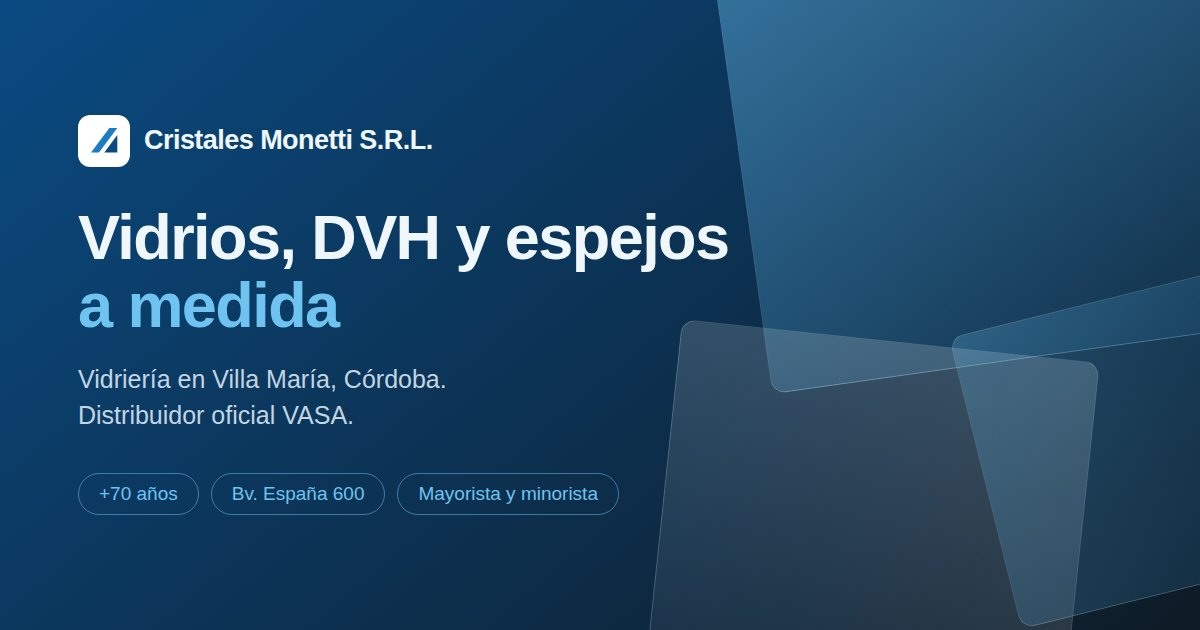
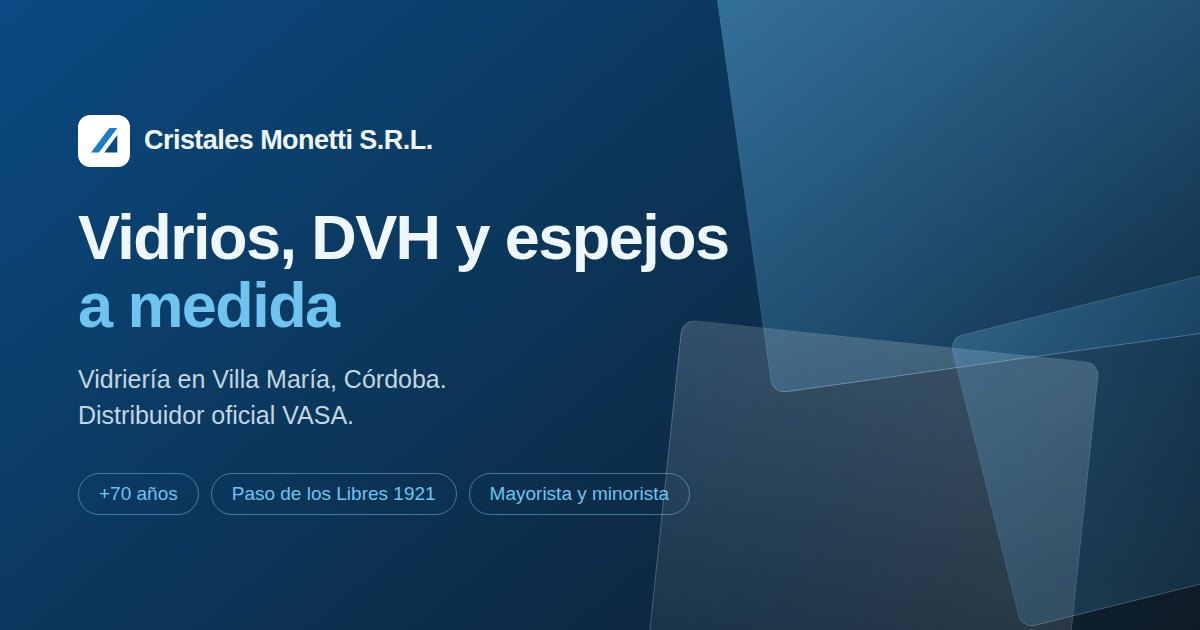
Corregir dirección, mover el carrusel al hero y simplificar su título
- Dirección: "Bv. España 600" -> "Paso de los Libres 1921" en todo el
  sitio (meta description, og:image:alt, hero, tarjeta de trayectoria,
  ficha de contacto, footer, FAQ, JSON-LD). Los dos links "Cómo llegar
  en Google Maps" ahora usan el enlace directo que pasó el cliente
  (maps.app.goo.gl) en vez de una búsqueda de texto construida. Imagen
  OG re-renderizada: tenía la dirección vieja impresa en los píxeles.

- El carrusel de materiales se movió de su sección propia (entre
  Servicios y Trayectoria) al hero, entre el párrafo de bajada y los
  botones de acción, como pidió el cliente. Se le sacó el eyebrow
  ("Para quien no sabe de vidrios") y el subtítulo, dejando solo el
  título "Los materiales, explicados simple". El link "Materiales" del
  nav se sacó por quedar redundante: el bloque ya es visible sin
  scrollear.

- Verificado: jerarquía de encabezados sin saltos (h1->h2->h3), sin
  duplicar ids, el carrusel sigue funcionando por teclado/click/anclas,
  0 fallas de contraste AA, sin overflow horizontal, funciona sin JS,
  ambos bloques JSON-LD parsean.

- El ícono de teléfono del header en mobile se revisó a fondo: href,
  hit-test y pointer-events están correctos (confirmado con Playwright).
  No hay bug de código — es consistente con que tel: no navega dentro
  de un iframe sandboxeado como el de la vista previa de Artifact.

Claude-Session: https://claude.ai/code/session_01U9TNHEzT5VZcCpw4d8HbEx

Changed region(s): [[0.185, 0.754, 0.555, 0.8143]]

diff --git a/index.html b/index.html
@@ -5,7 +5,7 @@
 <meta name="viewport" content="width=device-width, initial-scale=1">
 
 <title>Cristales Monetti — Vidrios, DVH y espejos a medida en Villa María, Córdoba</title>
-<meta name="description" content="Vidriería en Villa María, Córdoba con más de 70 años de trayectoria. Vidrios, DVH, espejos a medida, templados, laminados y carpintería de aluminio. Distribuidor oficial VASA. Venta mayorista y minorista. Bv. España 600.">
+<meta name="description" content="Vidriería en Villa María, Córdoba con más de 70 años de trayectoria. Vidrios, DVH, espejos a medida, templados, laminados y carpintería de aluminio. Distribuidor oficial VASA. Venta mayorista y minorista. Paso de los Libres 1921.">
 <meta name="theme-color" content="#0A4A82">
 <meta name="author" content="Cristales Monetti S.R.L.">
 <meta name="robots" content="index, follow">
@@ -22,7 +22,7 @@
 <meta property="og:image" content="https://cristalesmonetti.com.ar/assets/og-cristales-monetti.jpg">
 <meta property="og:image:width" content="1200">
 <meta property="og:image:height" content="630">
-<meta property="og:image:alt" content="Cristales Monetti S.R.L. — vidriería en Bv. España 600, Villa María, Córdoba.">
+<meta property="og:image:alt" content="Cristales Monetti S.R.L. — vidriería en Paso de los Libres 1921, Villa María, Córdoba.">
 
 <meta name="twitter:card" content="summary_large_image">
 <meta name="twitter:title" content="Cristales Monetti — Vidrios, DVH y espejos a medida en Villa María">
@@ -153,6 +153,8 @@ a:focus-visible,button:focus-visible,summary:focus-visible,[tabindex]:focus-visi
 .hero__texto{max-width:600px}
 .hero h1 .resalte{color:var(--azul)}
 .hero__bajada{font-size:clamp(1.02rem,1.6vw,1.18rem);color:var(--gris);max-width:50ch}
+.hero__materiales{margin:24px 0 4px;scroll-margin-top:76px}
+.hero__materiales h2{font-size:1.15rem;margin-bottom:.6em}
 .hero__acciones{display:flex;flex-wrap:wrap;gap:12px;margin:28px 0 22px}
 .hero__datos{display:flex;flex-wrap:wrap;gap:10px 22px;font-size:.93rem;color:var(--gris)}
 .hero__datos li{display:flex;align-items:center;gap:8px}
@@ -344,7 +346,6 @@ a.senal:hover{transform:translateY(-4px);box-shadow:var(--sombra);border-color:v
 
     <nav class="nav" aria-label="Navegación principal">
       <a href="#servicios">Servicios</a>
-      <a href="#materiales">Materiales</a>
       <a href="#trayectoria">Trayectoria</a>
       <a href="#preguntas">Preguntas</a>
       <a href="#contacto">Contacto</a>
@@ -371,6 +372,100 @@ a.senal:hover{transform:translateY(-4px);box-shadow:var(--sombra);border-color:v
           con asesoramiento antes de comprar.
         </p>
 
+        <section class="hero__materiales" id="materiales" aria-labelledby="titulo-materiales">
+          <h2 id="titulo-materiales">Los materiales, explicados simple</h2>
+
+          <div class="carrusel">
+            <div class="carrusel__viewport" tabindex="0" aria-label="Materiales y productos, lista desplazable con el teclado">
+              <ul class="carrusel__pista" role="list">
+
+                <li class="carrusel__item" id="mat-1">
+                  <svg class="carrusel__ilustracion" viewBox="0 0 220 160" aria-hidden="true" focusable="false">
+                    <rect x="54" y="30" width="120" height="90" rx="3" fill="var(--hielo)" stroke="var(--azul)" stroke-width="2.2"/>
+                    <path d="M60 40 L150 118" stroke="var(--celeste)" stroke-width="6" stroke-linecap="round" opacity=".45"/>
+                    <line x1="54" y1="18" x2="174" y2="18" stroke="var(--azul-medio)" stroke-width="1.6"/>
+                    <line x1="54" y1="12" x2="54" y2="24" stroke="var(--azul-medio)" stroke-width="1.6"/>
+                    <line x1="174" y1="12" x2="174" y2="24" stroke="var(--azul-medio)" stroke-width="1.6"/>
+                    <line x1="40" y1="30" x2="40" y2="120" stroke="var(--azul-medio)" stroke-width="1.6"/>
+                    <line x1="34" y1="30" x2="46" y2="30" stroke="var(--azul-medio)" stroke-width="1.6"/>
+                    <line x1="34" y1="120" x2="46" y2="120" stroke="var(--azul-medio)" stroke-width="1.6"/>
+                  </svg>
+                  <h3>Vidrio a medida</h3>
+                  <p>Cortamos el vidrio al milímetro que necesites: para una ventana, una mesa o una repisa.</p>
+                </li>
+
+                <li class="carrusel__item" id="mat-2">
+                  <svg class="carrusel__ilustracion" viewBox="0 0 220 160" aria-hidden="true" focusable="false">
+                    <rect x="58" y="26" width="14" height="108" fill="var(--hielo)" stroke="var(--azul)" stroke-width="2.2"/>
+                    <rect x="148" y="26" width="14" height="108" fill="var(--hielo)" stroke="var(--azul)" stroke-width="2.2"/>
+                    <rect x="72" y="24" width="76" height="9" fill="var(--azul-medio)"/>
+                    <rect x="72" y="127" width="76" height="9" fill="var(--azul-medio)"/>
+                    <line x1="88" y1="80" x2="132" y2="80" stroke="var(--azul-texto)" stroke-width="1.4" stroke-dasharray="3 4"/>
+                    <path d="M35 80 h18" stroke="#C0522D" stroke-width="3" stroke-linecap="round"/>
+                    <path d="M53 80 l-6 -4 M53 80 l-6 4" stroke="#C0522D" stroke-width="3" stroke-linecap="round"/>
+                    <path d="M185 80 h-18" stroke="var(--celeste)" stroke-width="3" stroke-linecap="round"/>
+                    <path d="M167 80 l6 -4 M167 80 l6 4" stroke="var(--celeste)" stroke-width="3" stroke-linecap="round"/>
+                  </svg>
+                  <h3>DVH — doble vidriado hermético</h3>
+                  <p>Dos vidrios con una cámara de aire sellada en el medio. Aísla más el frío, el calor y el ruido que un vidrio simple.</p>
+                </li>
+
+                <li class="carrusel__item" id="mat-3">
+                  <svg class="carrusel__ilustracion" viewBox="0 0 220 160" aria-hidden="true" focusable="false">
+                    <path d="M55 20 H145 L165 40 V140 H55 Z" fill="var(--celeste)" fill-opacity=".28" stroke="var(--azul)" stroke-width="2.2" stroke-linejoin="round"/>
+                    <path d="M70 30 L100 120" stroke="#fff" stroke-width="7" stroke-linecap="round" opacity=".55"/>
+                    <path d="M95 30 L120 110" stroke="#fff" stroke-width="4" stroke-linecap="round" opacity=".4"/>
+                    <circle cx="140" cy="115" r="4.5" fill="none" stroke="var(--azul)" stroke-width="1.6"/>
+                  </svg>
+                  <h3>Espejos</h3>
+                  <p>Vidrio con respaldo reflectante, a medida y con el biselado o las perforaciones que necesite el diseño.</p>
+                </li>
+
+                <li class="carrusel__item" id="mat-4">
+                  <svg class="carrusel__ilustracion" viewBox="0 0 220 160" aria-hidden="true" focusable="false">
+                    <rect x="18" y="24" width="82" height="104" rx="3" fill="var(--hielo)" stroke="var(--azul)" stroke-width="2.2"/>
+                    <g stroke="var(--azul-medio)" stroke-width="1.3" stroke-linecap="round">
+                      <path d="M40 60 L55 68 L48 84 L62 90"/>
+                      <path d="M55 68 L68 78"/>
+                      <path d="M40 60 L34 76 L48 84"/>
+                      <path d="M62 90 L58 108 L74 100 L80 116"/>
+                      <path d="M68 78 L80 90 L74 100"/>
+                    </g>
+                    <line x1="110" y1="20" x2="110" y2="132" stroke="var(--borde)" stroke-width="2"/>
+                    <rect x="120" y="24" width="82" height="104" rx="3" fill="var(--hielo)" stroke="var(--azul)" stroke-width="2.2"/>
+                    <rect x="120" y="68" width="82" height="16" fill="var(--celeste)" fill-opacity=".55"/>
+                    <path d="M132 24 L190 128" stroke="var(--azul-texto)" stroke-width="1.6"/>
+                  </svg>
+                  <h3>Templados y laminados</h3>
+                  <p>El templado, si se rompe, se hace pedacitos chicos y sin filo. El laminado no se separa: queda unido a una lámina interior. Los dos son vidrios de seguridad.</p>
+                </li>
+
+                <li class="carrusel__item" id="mat-5">
+                  <svg class="carrusel__ilustracion" viewBox="0 0 220 160" aria-hidden="true" focusable="false">
+                    <path d="M40 30 H70 V44 H58 V130 H40 Z" fill="var(--azul-medio)"/>
+                    <path d="M180 30 H150 V44 H162 V130 H180 Z" fill="var(--azul-medio)"/>
+                    <rect x="70" y="44" width="4" height="86" fill="var(--tinta)" opacity=".35"/>
+                    <rect x="146" y="44" width="4" height="86" fill="var(--tinta)" opacity=".35"/>
+                    <rect x="78" y="46" width="64" height="82" fill="var(--hielo)" stroke="var(--azul)" stroke-width="2"/>
+                    <circle cx="110" cy="100" r="3.4" fill="var(--azul-texto)"/>
+                  </svg>
+                  <h3>Carpintería de aluminio</h3>
+                  <p>El perfil que sostiene el vidrio en la ventana o la puerta. Lo armamos a medida en el taller.</p>
+                </li>
+
+              </ul>
+            </div>
+
+            <div class="carrusel__puntos">
+              <a href="#mat-1" aria-label="Vidrio a medida, diapositiva 1 de 5"></a>
+              <a href="#mat-2" aria-label="DVH, diapositiva 2 de 5"></a>
+              <a href="#mat-3" aria-label="Espejos, diapositiva 3 de 5"></a>
+              <a href="#mat-4" aria-label="Templados y laminados, diapositiva 4 de 5"></a>
+              <a href="#mat-5" aria-label="Carpintería de aluminio, diapositiva 5 de 5"></a>
+            </div>
+          </div>
+        </section>
+
         <div class="hero__acciones">
           <a class="btn btn--primario" href="#contacto">Pedir presupuesto</a>
           <a class="btn btn--secundario" href="#servicios">Ver lo que hacemos</a>
@@ -379,7 +474,7 @@ a.senal:hover{transform:translateY(-4px);box-shadow:var(--sombra);border-color:v
         <ul class="hero__datos">
           <li>
             <svg width="17" height="17" viewBox="0 0 24 24" fill="none" stroke="currentColor" stroke-width="2" stroke-linecap="round" stroke-linejoin="round" aria-hidden="true" focusable="false"><path d="M20 10c0 6-8 12-8 12s-8-6-8-12a8 8 0 0 1 16 0Z"/><circle cx="12" cy="10" r="3"/></svg>
-            Bv. España 600
+            Paso de los Libres 1921
           </li>
           <li>
             <svg width="17" height="17" viewBox="0 0 24 24" fill="none" stroke="currentColor" stroke-width="2" stroke-linecap="round" stroke-linejoin="round" aria-hidden="true" focusable="false"><path d="m9 11 3 3L22 4"/><path d="M21 12a9 9 0 1 1-6.2-8.6"/></svg>
@@ -396,7 +491,7 @@ a.senal:hover{transform:translateY(-4px);box-shadow:var(--sombra);border-color:v
         Cuando esté disponible la foto real de la fachada, reemplazar el bloque
         decorativo de abajo por:
         <img src="assets/fachada-cristales-monetti.jpg" width="1000" height="850"
-             alt="Frente del local de Cristales Monetti en Bv. España 600, Villa María: vidrio espejado azul y cartel blanco con el logo azul."
+             alt="Frente del local de Cristales Monetti en Paso de los Libres 1921, Villa María: vidrio espejado azul y cartel blanco con el logo azul."
              loading="eager" decoding="async">
       -->
       <div class="vidrios" aria-hidden="true">
@@ -475,107 +570,6 @@ a.senal:hover{transform:translateY(-4px);box-shadow:var(--sombra);border-color:v
     </div>
   </section>
 
-  <!-- ================= MATERIALES ================= -->
-  <section class="seccion" id="materiales" aria-labelledby="titulo-materiales">
-    <div class="contenedor">
-      <div class="seccion__intro aparece">
-        <p class="eyebrow">Para quien no sabe de vidrios</p>
-        <h2 id="titulo-materiales">Los materiales, explicados simple</h2>
-        <p>Si no tenés claro qué es un DVH o la diferencia entre templado y laminado, arrancá por acá.</p>
-      </div>
-
-      <div class="carrusel aparece">
-        <div class="carrusel__viewport" tabindex="0" aria-label="Materiales y productos, lista desplazable con el teclado">
-          <ul class="carrusel__pista" role="list">
-
-            <li class="carrusel__item" id="mat-1">
-              <svg class="carrusel__ilustracion" viewBox="0 0 220 160" aria-hidden="true" focusable="false">
-                <rect x="54" y="30" width="120" height="90" rx="3" fill="var(--hielo)" stroke="var(--azul)" stroke-width="2.2"/>
-                <path d="M60 40 L150 118" stroke="var(--celeste)" stroke-width="6" stroke-linecap="round" opacity=".45"/>
-                <line x1="54" y1="18" x2="174" y2="18" stroke="var(--azul-medio)" stroke-width="1.6"/>
-                <line x1="54" y1="12" x2="54" y2="24" stroke="var(--azul-medio)" stroke-width="1.6"/>
-                <line x1="174" y1="12" x2="174" y2="24" stroke="var(--azul-medio)" stroke-width="1.6"/>
-                <line x1="40" y1="30" x2="40" y2="120" stroke="var(--azul-medio)" stroke-width="1.6"/>
-                <line x1="34" y1="30" x2="46" y2="30" stroke="var(--azul-medio)" stroke-width="1.6"/>
-                <line x1="34" y1="120" x2="46" y2="120" stroke="var(--azul-medio)" stroke-width="1.6"/>
-              </svg>
-              <h3>Vidrio a medida</h3>
-              <p>Cortamos el vidrio al milímetro que necesites: para una ventana, una mesa o una repisa.</p>
-            </li>
-
-            <li class="carrusel__item" id="mat-2">
-              <svg class="carrusel__ilustracion" viewBox="0 0 220 160" aria-hidden="true" focusable="false">
-                <rect x="58" y="26" width="14" height="108" fill="var(--hielo)" stroke="var(--azul)" stroke-width="2.2"/>
-                <rect x="148" y="26" width="14" height="108" fill="var(--hielo)" stroke="var(--azul)" stroke-width="2.2"/>
-                <rect x="72" y="24" width="76" height="9" fill="var(--azul-medio)"/>
-                <rect x="72" y="127" width="76" height="9" fill="var(--azul-medio)"/>
-                <line x1="88" y1="80" x2="132" y2="80" stroke="var(--azul-texto)" stroke-width="1.4" stroke-dasharray="3 4"/>
-                <path d="M35 80 h18" stroke="#C0522D" stroke-width="3" stroke-linecap="round"/>
-                <path d="M53 80 l-6 -4 M53 80 l-6 4" stroke="#C0522D" stroke-width="3" stroke-linecap="round"/>
-                <path d="M185 80 h-18" stroke="var(--celeste)" stroke-width="3" stroke-linecap="round"/>
-                <path d="M167 80 l6 -4 M167 80 l6 4" stroke="var(--celeste)" stroke-width="3" stroke-linecap="round"/>
-              </svg>
-              <h3>DVH — doble vidriado hermético</h3>
-              <p>Dos vidrios con una cámara de aire sellada en el medio. Aísla más el frío, el calor y el ruido que un vidrio simple.</p>
-            </li>
-
-            <li class="carrusel__item" id="mat-3">
-              <svg class="carrusel__ilustracion" viewBox="0 0 220 160" aria-hidden="true" focusable="false">
-                <path d="M55 20 H145 L165 40 V140 H55 Z" fill="var(--celeste)" fill-opacity=".28" stroke="var(--azul)" stroke-width="2.2" stroke-linejoin="round"/>
-                <path d="M70 30 L100 120" stroke="#fff" stroke-width="7" stroke-linecap="round" opacity=".55"/>
-                <path d="M95 30 L120 110" stroke="#fff" stroke-width="4" stroke-linecap="round" opacity=".4"/>
-                <circle cx="140" cy="115" r="4.5" fill="none" stroke="var(--azul)" stroke-width="1.6"/>
-              </svg>
-              <h3>Espejos</h3>
-              <p>Vidrio con respaldo reflectante, a medida y con el biselado o las perforaciones que necesite el diseño.</p>
-            </li>
-
-            <li class="carrusel__item" id="mat-4">
-              <svg class="carrusel__ilustracion" viewBox="0 0 220 160" aria-hidden="true" focusable="false">
-                <rect x="18" y="24" width="82" height="104" rx="3" fill="var(--hielo)" stroke="var(--azul)" stroke-width="2.2"/>
-                <g stroke="var(--azul-medio)" stroke-width="1.3" stroke-linecap="round">
-                  <path d="M40 60 L55 68 L48 84 L62 90"/>
-                  <path d="M55 68 L68 78"/>
-                  <path d="M40 60 L34 76 L48 84"/>
-                  <path d="M62 90 L58 108 L74 100 L80 116"/>
-                  <path d="M68 78 L80 90 L74 100"/>
-                </g>
-                <line x1="110" y1="20" x2="110" y2="132" stroke="var(--borde)" stroke-width="2"/>
-                <rect x="120" y="24" width="82" height="104" rx="3" fill="var(--hielo)" stroke="var(--azul)" stroke-width="2.2"/>
-                <rect x="120" y="68" width="82" height="16" fill="var(--celeste)" fill-opacity=".55"/>
-                <path d="M132 24 L190 128" stroke="var(--azul-texto)" stroke-width="1.6"/>
-              </svg>
-              <h3>Templados y laminados</h3>
-              <p>El templado, si se rompe, se hace pedacitos chicos y sin filo. El laminado no se separa: queda unido a una lámina interior. Los dos son vidrios de seguridad.</p>
-            </li>
-
-            <li class="carrusel__item" id="mat-5">
-              <svg class="carrusel__ilustracion" viewBox="0 0 220 160" aria-hidden="true" focusable="false">
-                <path d="M40 30 H70 V44 H58 V130 H40 Z" fill="var(--azul-medio)"/>
-                <path d="M180 30 H150 V44 H162 V130 H180 Z" fill="var(--azul-medio)"/>
-                <rect x="70" y="44" width="4" height="86" fill="var(--tinta)" opacity=".35"/>
-                <rect x="146" y="44" width="4" height="86" fill="var(--tinta)" opacity=".35"/>
-                <rect x="78" y="46" width="64" height="82" fill="var(--hielo)" stroke="var(--azul)" stroke-width="2"/>
-                <circle cx="110" cy="100" r="3.4" fill="var(--azul-texto)"/>
-              </svg>
-              <h3>Carpintería de aluminio</h3>
-              <p>El perfil que sostiene el vidrio en la ventana o la puerta. Lo armamos a medida en el taller.</p>
-            </li>
-
-          </ul>
-        </div>
-
-        <div class="carrusel__puntos">
-          <a href="#mat-1" aria-label="Vidrio a medida, diapositiva 1 de 5"></a>
-          <a href="#mat-2" aria-label="DVH, diapositiva 2 de 5"></a>
-          <a href="#mat-3" aria-label="Espejos, diapositiva 3 de 5"></a>
-          <a href="#mat-4" aria-label="Templados y laminados, diapositiva 4 de 5"></a>
-          <a href="#mat-5" aria-label="Carpintería de aluminio, diapositiva 5 de 5"></a>
-        </div>
-      </div>
-    </div>
-  </section>
-
   <!-- ================= CONFIANZA ================= -->
   <section class="seccion" id="trayectoria" aria-labelledby="titulo-trayectoria">
     <div class="contenedor">
@@ -600,12 +594,12 @@ a.senal:hover{transform:translateY(-4px);box-shadow:var(--sombra);border-color:v
         </li>
 
         <li>
-          <a class="senal aparece" href="https://www.google.com/maps/search/?api=1&query=Cristales+Monetti+Bv.+Espa%C3%B1a+600+Villa+Mar%C3%ADa+C%C3%B3rdoba" target="_blank" rel="noopener">
+          <a class="senal aparece" href="https://maps.app.goo.gl/DirErrJn8D2XXBCw8" target="_blank" rel="noopener">
             <span class="senal__dato" aria-hidden="true">
               <svg width="30" height="30" viewBox="0 0 24 24" fill="none" stroke="currentColor" stroke-width="2" stroke-linecap="round" stroke-linejoin="round"><path d="M20 10c0 6-8 12-8 12s-8-6-8-12a8 8 0 0 1 16 0Z"/><circle cx="12" cy="10" r="3"/></svg>
             </span>
             <h3>Local a la calle</h3>
-            <p>Bv. España 600, Villa María, Córdoba. Vení, mirá el material y consultá en persona.</p>
+            <p>Paso de los Libres 1921, Villa María, Córdoba. Vení, mirá el material y consultá en persona.</p>
             <span class="senal__link">Cómo llegar en Google Maps →</span>
           </a>
         </li>
@@ -666,7 +660,7 @@ a.senal:hover{transform:translateY(-4px);box-shadow:var(--sombra);border-color:v
 
         <details class="faq__item">
           <summary>¿Cómo pido un presupuesto?</summary>
-          <div><p>Llamanos al (0353) 453-3054, escribinos por Instagram o acercate a Bv. España 600.
+          <div><p>Llamanos al (0353) 453-3054, escribinos por Instagram o acercate a Paso de los Libres 1921.
             Con las medidas, el tipo de vidrio y la cantidad te pasamos el precio; si no sabés qué te conviene,
             te asesoramos.</p></div>
         </details>
@@ -707,7 +701,7 @@ a.senal:hover{transform:translateY(-4px);box-shadow:var(--sombra);border-color:v
           <div>
             <dt>Dirección</dt>
             <dd>
-              <a href="https://www.google.com/maps/search/?api=1&query=Cristales+Monetti+Bv.+Espa%C3%B1a+600+Villa+Mar%C3%ADa+C%C3%B3rdoba" target="_blank" rel="noopener">Bv. España 600, Villa María, Córdoba</a>
+              <a href="https://maps.app.goo.gl/DirErrJn8D2XXBCw8" target="_blank" rel="noopener">Paso de los Libres 1921, Villa María, Córdoba</a>
             </dd>
           </div>
           <div>
@@ -734,7 +728,7 @@ a.senal:hover{transform:translateY(-4px);box-shadow:var(--sombra);border-color:v
 
 <footer class="pie">
   <div class="contenedor pie__fila">
-    <p style="margin:0">© <span id="anio">2026</span> Cristales Monetti S.R.L. · Bv. España 600, Villa María, Córdoba.</p>
+    <p style="margin:0">© <span id="anio">2026</span> Cristales Monetti S.R.L. · Paso de los Libres 1921, Villa María, Córdoba.</p>
     <p style="margin:0">
       <a href="tel:+543534533054">(0353) 453-3054</a> ·
       <a href="https://www.instagram.com/cristalesmonetti/" target="_blank" rel="noopener">@cristalesmonetti</a>
@@ -757,7 +751,7 @@ a.senal:hover{transform:translateY(-4px);box-shadow:var(--sombra);border-color:v
   "slogan": "Vidrios, DVH y espejos cortados a medida",
   "address": {
     "@type": "PostalAddress",
-    "streetAddress": "Bv. España 600",
+    "streetAddress": "Paso de los Libres 1921",
     "addressLocality": "Villa María",
     "addressRegion": "Córdoba",
     "postalCode": "5900",
@@ -823,7 +817,7 @@ a.senal:hover{transform:translateY(-4px);box-shadow:var(--sombra);border-color:v
     {
       "@type": "Question",
       "name": "¿Cómo pido un presupuesto?",
-      "acceptedAnswer": { "@type": "Answer", "text": "Llamanos al (0353) 453-3054, escribinos por Instagram o acercate a Bv. España 600, Villa María. Con las medidas, el tipo de vidrio y la cantidad te pasamos el precio; si no sabés qué te conviene, te asesoramos." }
+      "acceptedAnswer": { "@type": "Answer", "text": "Llamanos al (0353) 453-3054, escribinos por Instagram o acercate a Paso de los Libres 1921, Villa María. Con las medidas, el tipo de vidrio y la cantidad te pasamos el precio; si no sabés qué te conviene, te asesoramos." }
     }
   ]
 }

diff --git a/README.md b/README.md
@@ -1,6 +1,6 @@
 # Landing — Cristales Monetti S.R.L.
 
-Landing de una sola página para Cristales Monetti S.R.L. (Bv. España 600, Villa María,
+Landing de una sola página para Cristales Monetti S.R.L. (Paso de los Libres 1921, Villa María,
 Córdoba). HTML estático, sin build ni dependencias: se sube tal cual a cualquier hosting.
 
 ```
@@ -34,7 +34,7 @@ Están marcados en la página con el cartel **“Falta confirmar”** y con come
 
 ## Datos usados (confirmados)
 
-Bv. España 600, Villa María, Córdoba · (0353) 453-3054 · [@cristalesmonetti](https://www.instagram.com/cristalesmonetti/)
+Paso de los Libres 1921, Villa María, Córdoba · (0353) 453-3054 · [@cristalesmonetti](https://www.instagram.com/cristalesmonetti/)
 · Distribuidor oficial VASA · más de 70 años de trayectoria · venta mayorista y minorista.
 
 No se incluyeron testimonios: todavía no hay ninguno recopilado, así que la prueba social
